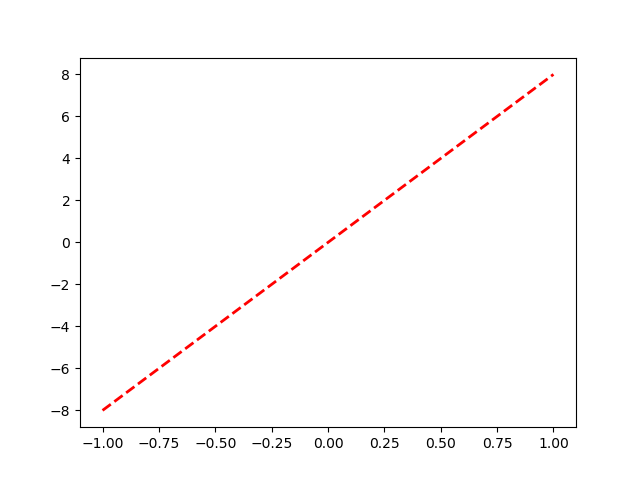
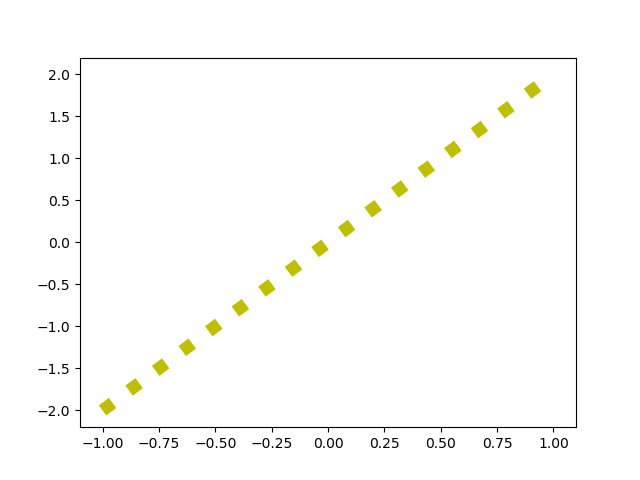
first commit

diff --git a/example.py b/example.py
@@ -2,7 +2,7 @@ import matplotlib.pyplot as plt
 import numpy as np
 
 x = np.linspace(-1, 1, 50)
-y = 8*x
+y = 2*x
 
-plt.plot(x, y,'r--',linewidth=2)
+plt.plot(x, y,'y:',linewidth=9)
 plt.savefig('chart.png')

diff --git a/README.md b/README.md
@@ -1,4 +1,4 @@
-# Line Chart Hue 
+# Line Chart Gwendolyn 
 
 Chart example for Python
 
